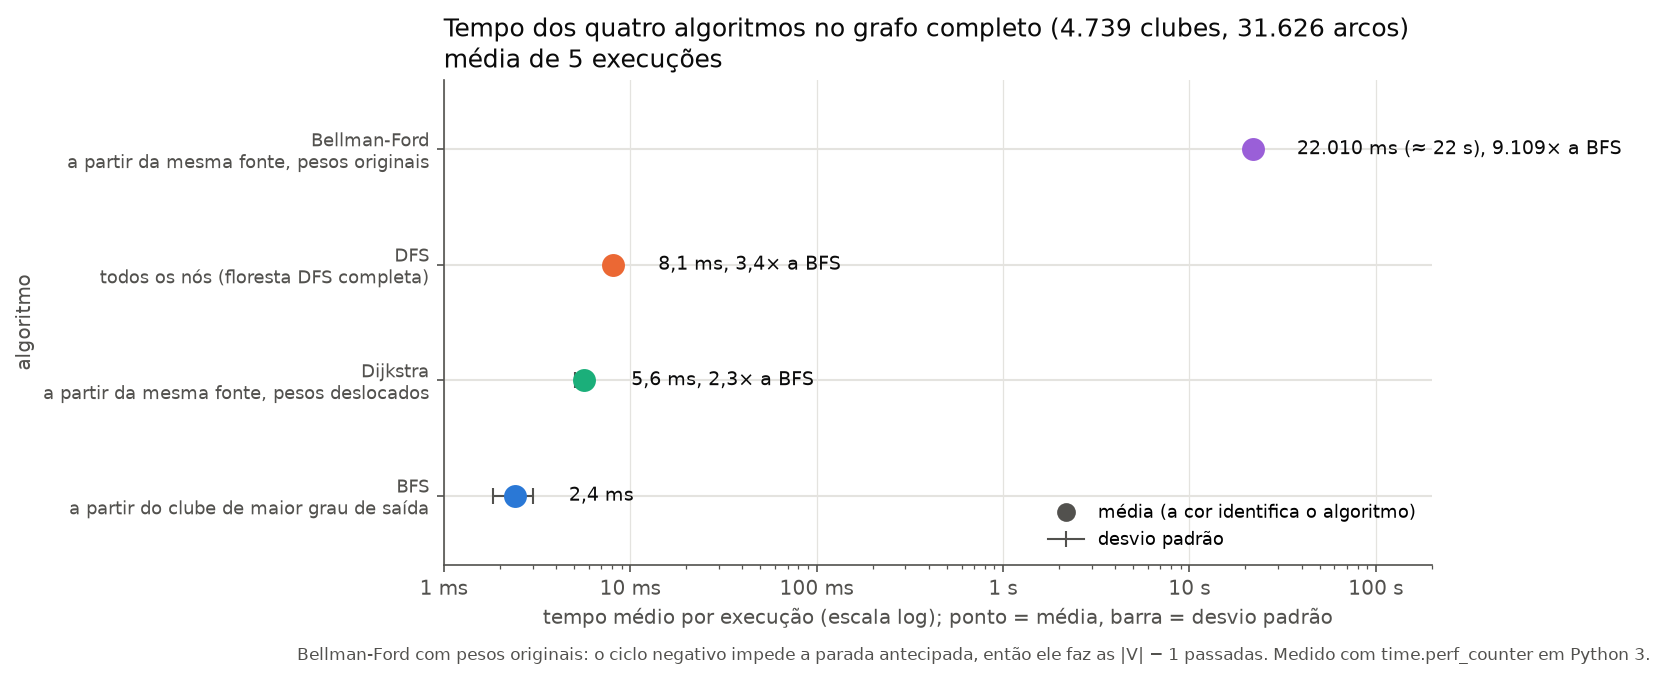
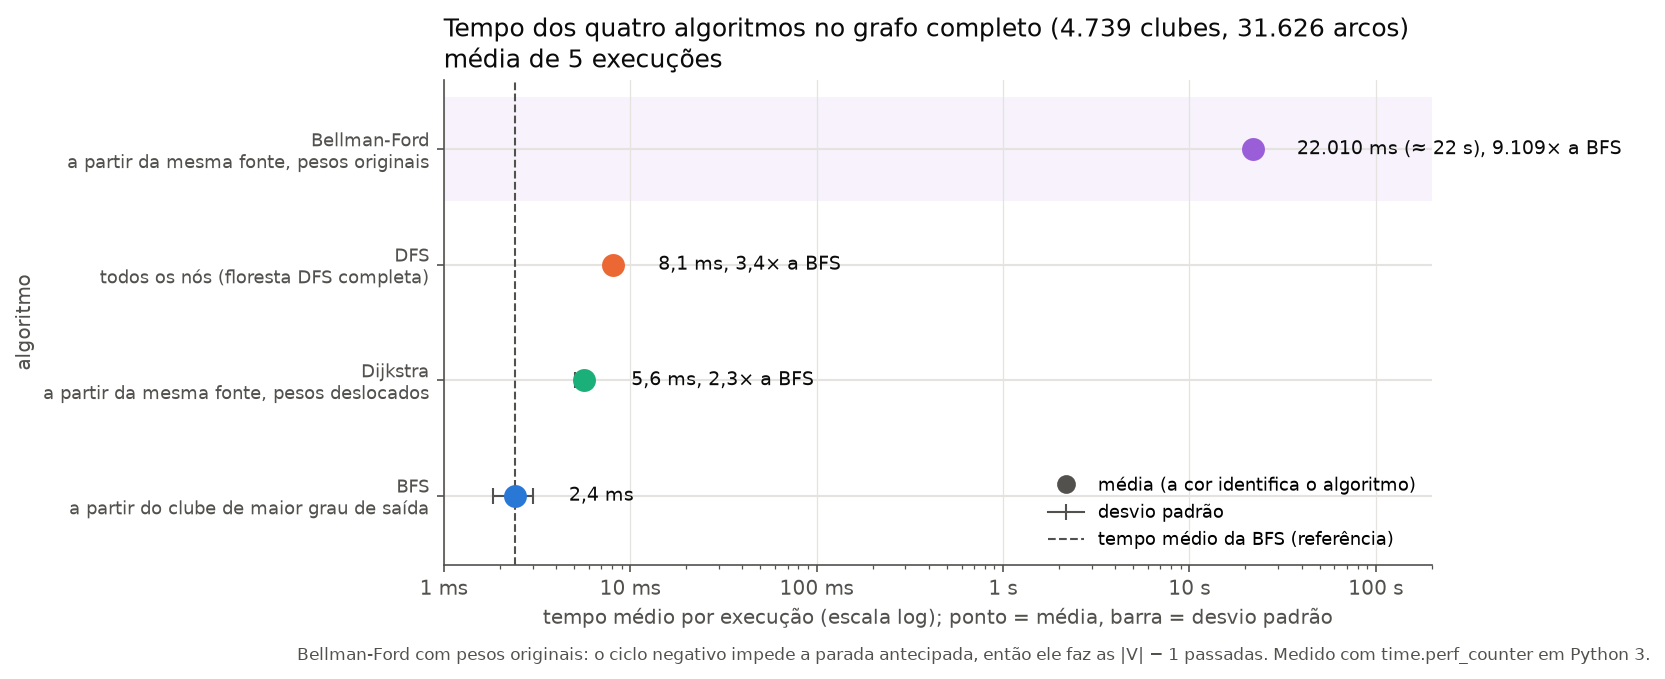
ajeitando graficos da parte 2

Changed region(s): [[0.6246, 0.6804, 0.8432, 0.8041]]

diff --git a/src/viz_parte2.py b/src/viz_parte2.py
@@ -9,6 +9,7 @@ import matplotlib
 matplotlib.use("Agg")
 import matplotlib.pyplot as plt
 import numpy as np
+import pandas as pd
 from matplotlib.lines import Line2D
 from matplotlib.patches import Patch
 from matplotlib.patheffects import withStroke
@@ -172,10 +173,14 @@ def pesos(t, saida):
     linthresh = 1e3
     bordas = np.concatenate([-np.logspace(8.4, 3, 28), [-500, 500], np.logspace(3, 8.4, 28)])
     ticks = [-1e8, -1e6, -1e4, 0, 1e4, 1e6, 1e8]
-    grupos = [("saída gratuita (valor pago = 0): peso = − valor de mercado", t[t["gratuita"]], DESTAQUE),
-              ("venda paga: peso = valor pago − valor de mercado", t[~t["gratuita"]], CORES[0])]
-    for ax, (rotulo, g, cor) in zip(eixos, grupos):
-        ax.hist(g["peso"], bins=bordas, color=cor, edgecolor="white", linewidth=0.5)
+    grupos = [("saída gratuita (valor pago = 0): peso = − valor de mercado", t[t["gratuita"]]),
+              ("venda paga: peso = valor pago − valor de mercado", t[~t["gratuita"]])]
+    # [IA] Claude Code (Claude Opus 5.5) – código das cores e dos destaques decididos por João em 25/11/2026: a cor indica o sinal do peso (negativo laranja, zero cinza-escuro, positivo azul) nos dois painéis
+    cor_negativo, cor_zero, cor_positivo = DESTAQUE, TEXTO_2, CORES[0]
+    for ax, (rotulo, g) in zip(eixos, grupos):
+        _, esquerdas, barras = ax.hist(g["peso"], bins=bordas, edgecolor="white", linewidth=0.5)
+        for barra, esquerda in zip(barras, esquerdas[:-1]):
+            barra.set_facecolor(cor_negativo if esquerda < -500 else cor_zero if esquerda < 500 else cor_positivo)
         ax.set_xscale("symlog", linthresh=linthresh, linscale=0.5)
         ax.axvline(0, color=TEXTO, lw=1)
         neg = (g["peso"] < 0).mean()
@@ -195,8 +200,9 @@ def pesos(t, saida):
     eixos[1].set_xlim(-2.5e8, 2.5e8)
     eixos[1].set_xlabel("peso da transferência em EUR (escala symlog: logarítmica a partir de ±1 mil)")
     # [IA] Claude Code (Claude Opus 5.5) – legenda das cores e da linha do peso 0, no lado positivo vazio do painel de cima
-    eixos[0].legend(handles=[Patch(color=DESTAQUE, label="saída gratuita"), Patch(color=CORES[0], label="venda paga"),
-                             Line2D([], [], color=TEXTO, lw=1, label="peso 0")], loc="upper right", fontsize=8.5)
+    eixos[0].legend(handles=[Patch(color=cor_negativo, label="peso negativo"), Patch(color=cor_zero, label="peso zero"),
+                             Patch(color=cor_positivo, label="peso positivo"),
+                             Line2D([], [], color=TEXTO, lw=1, label="linha do peso 0")], loc="upper right", fontsize=8.5)
     fig.suptitle("Distribuição dos pesos: a maior parte da rede é negativa", x=0.01, ha="left",
                  fontsize=12, color=TEXTO)
     fig.tight_layout()
@@ -210,11 +216,17 @@ def faltantes(d, saida):
     faltas = b.groupby("temporada")[["transfer_fee", "market_value_in_eur"]].apply(lambda x: x.isna().mean())
     mv, fee = faltas["market_value_in_eur"], faltas["transfer_fee"]
     fig, ax = plt.subplots(figsize=(8.5, 4.8))
+    ultima = faltas.index[-1]
+    # [IA] Claude Code (Claude Opus 5.5) – código das cores e dos destaques decididos por João em 25/11/2026: último ponto maior com contorno branco, % final em negrito na cor da linha e linha vertical na última temporada
+    ax.axvline(ultima, color=TEXTO_2, ls="--", lw=1, zorder=1)
     for col, rotulo, cor in (("market_value_in_eur", "valor de mercado", CORES[0]),
                              ("transfer_fee", "valor pago", CORES[1])):
         ax.plot(faltas.index, faltas[col], color=cor, lw=2, marker="o", ms=4, label=rotulo)
-        ax.annotate(f"{rotulo}: {pct(faltas[col].iloc[-1])}", (faltas.index[-1], faltas[col].iloc[-1]),
-                    xytext=(6, 0), textcoords="offset points", va="center", color=TEXTO_2)
+        ax.plot([ultima], [faltas[col].iloc[-1]], "o", color=cor, ms=10, mec="white", mew=1.8, zorder=4)
+        ax.annotate(f"{rotulo}: {pct(faltas[col].iloc[-1])}", (ultima, faltas[col].iloc[-1]),
+                    xytext=(10, 0), textcoords="offset points", va="center", color=cor, fontweight="bold")
+    ax.set_xlim(faltas.index[0] - 0.8, ultima + 5.5)
+    ax.set_xticks(range(int(faltas.index[0]), int(ultima) + 1, 5))
     ax.set_ylim(0, 1.02)
     ax.yaxis.set_major_formatter(FuncFormatter(pct_eixo))
     ax.set_xlabel("temporada (ano de início)")
@@ -243,16 +255,18 @@ def relacoes(t, saida):
         g = t.groupby(col, observed=True).agg(neg=("negativo", "mean"), n=("negativo", "size"))
         if col != "faixa_idade":
             g = g.sort_values("neg")
-        grupos.append((titulo, nomes, g))
+        grupos.append((col, titulo, nomes, g))
     # painéis empilhados com o mesmo eixo x; a altura de cada um segue o número de categorias
-    alturas = [len(g) + 0.9 for _, _, g in grupos]
+    alturas = [len(g) + 0.9 for *_, g in grupos]
     fig, eixos = plt.subplots(len(grupos), 1, figsize=(8.5, 0.38 * sum(alturas) + 1.2), sharex=True,
                               gridspec_kw={"height_ratios": alturas})
-    for ax, (titulo, nomes, g) in zip(eixos, grupos):
+    # [IA] Claude Code (Claude Opus 5.5) – código das cores e dos destaques decididos por João em 25/11/2026: idade em laranja, os outros três atributos em azul
+    for ax, (col, titulo, nomes, g) in zip(eixos, grupos):
+        cor = DESTAQUE if col == "faixa_idade" else CORES[0]
         rotulos = [(nomes or {}).get(str(i), str(i)) for i in g.index]
         y = np.arange(len(g))
         ax.hlines(y, 0, g["neg"], color=GRADE, lw=2)
-        ax.plot(g["neg"], y, "o", color=CORES[0], ms=8)
+        ax.plot(g["neg"], y, "o", color=cor, ms=8)
         for yi, (v, n) in enumerate(zip(g["neg"], g["n"])):
             ax.text(v + 0.012, yi, f"{pct(v)}  (n={br(n)})", va="center", fontsize=8.5, color=TEXTO_2,
                     clip_on=False)
@@ -267,9 +281,10 @@ def relacoes(t, saida):
     eixos[-1].xaxis.set_major_formatter(FuncFormatter(pct_eixo))
     eixos[-1].set_xlabel("% das transferências com peso negativo (saída abaixo do valor de mercado)")
     # [IA] Claude Code (Claude Opus 5.5) – legenda na linha do título do 1º painel, fora dos dados, e rótulo y comum aos painéis
-    eixos[0].legend(handles=[Line2D([], [], color=CORES[0], marker="o", ms=7, ls="", label="% negativo no grupo"),
+    eixos[0].legend(handles=[Line2D([], [], color=DESTAQUE, marker="o", ms=7, ls="", label="idade"),
+                             Line2D([], [], color=CORES[0], marker="o", ms=7, ls="", label="demais atributos"),
                              Line2D([], [], color=TEXTO_2, ls="--", lw=1, label="média geral")],
-                    loc="lower right", bbox_to_anchor=(1, 1), ncol=2, fontsize=8.5, borderaxespad=0.2)
+                    loc="lower right", bbox_to_anchor=(1, 1), ncol=3, fontsize=8.5, borderaxespad=0.2)
     fig.supylabel("atributo / categoria", fontsize=9.5, color=TEXTO_2)
     fig.suptitle("Relação do peso com os atributos do jogador: a idade é o que mais separa",
                  x=0.01, ha="left", fontsize=12, color=TEXTO)
@@ -284,28 +299,35 @@ def outliers(t, saida):
     pagas["log_razao"] = np.log10(pagas["razao"])
     lim = iqr(pagas["log_razao"])
     fora = (pagas["log_razao"] < lim["limite_inferior"]) | (pagas["log_razao"] > lim["limite_superior"])
+    # [IA] Claude Code (Claude Opus 5.5) – código do E5 decidido por João em 25/11/2026: em laranja só os 8 outliers do IQR
+    # mais extremos (as 4 menores e as 4 maiores razões valor pago / valor de mercado); em cinza, amostra aleatória de
+    # 1.500 das demais vendas pagas (semente 42), com 10% de opacidade; sem nomes; critério e amostra no rodapé.
+    # O cálculo do IQR não mudou.
+    outl = pagas[fora].sort_values("razao", kind="stable")
+    extremos = pd.concat([outl.head(4), outl.tail(4)])
+    demais = pagas.drop(extremos.index)
+    amostra = demais.sample(n=min(1500, len(demais)), random_state=42)
     fig, ax = plt.subplots(figsize=(7.5, 6.5))
-    ax.scatter(pagas.loc[~fora, "market_value_in_eur"], pagas.loc[~fora, "transfer_fee"], s=6, alpha=0.25,
-               color=NEUTRO, linewidths=0, label=f"dentro do IQR ({br((~fora).sum())})")
-    ax.scatter(pagas.loc[fora, "market_value_in_eur"], pagas.loc[fora, "transfer_fee"], s=10, alpha=0.7,
-               color=DESTAQUE, linewidths=0, label=f"outlier pela regra do IQR ({br(fora.sum())})")
+    ax.scatter(amostra["market_value_in_eur"], amostra["transfer_fee"], s=6, alpha=0.10, color=NEUTRO,
+               linewidths=0, label="amostra de transferências")
+    ax.scatter(extremos["market_value_in_eur"], extremos["transfer_fee"], s=36, alpha=1.0, color=DESTAQUE,
+               linewidths=0, label=f"{len(extremos)} outliers extremos", zorder=3)
     x = np.array([1e4, 3e8])
-    ax.plot(x, x, color=TEXTO, lw=1, ls="--", label="valor pago = valor de mercado (peso 0)")
+    ax.plot(x, x, color=TEXTO_2, lw=1, ls="--", label="linha de peso zero")
     ax.set_xscale("log")
     ax.set_yscale("log")
+    ax.grid(color=GRADE, lw=0.4, alpha=0.6)
     ax.xaxis.set_major_formatter(FuncFormatter(eur))
     ax.yaxis.set_major_formatter(FuncFormatter(eur))
     ax.set_xlabel("valor de mercado (EUR, escala log)")
     ax.set_ylabel("valor pago (EUR, escala log)")
-    ax.set_title("Outliers nas vendas pagas: valor pago contra valor de mercado\n"
-                 "acima da diagonal, pagou-se mais que o mercado; abaixo, menos")
-    legenda = ax.legend(loc="upper left", markerscale=2)
-    maiores = pagas.reindex(pagas["peso"].abs().sort_values(ascending=False).index).head(5)
-    rotular_sem_sobrepor(ax, [(r.market_value_in_eur, r.transfer_fee, r.player_name) for r in maiores.itertuples()],
-                         evitar=[legenda])
-    rodape(fig, f"IQR sobre log10(valor pago / valor de mercado): fora de [{br(lim['limite_inferior'], 2)}; "
-                f"{br(lim['limite_superior'], 2)}]. Nomes: as 5 maiores diferenças em módulo. "
-                f"{br(len(pagas))} vendas pagas.")
+    ax.set_title("Outliers: valor pago × valor de mercado")
+    ax.legend(loc="upper left", markerscale=1.5)
+    rodape(fig, f"IQR sobre log10(valor pago / valor de mercado), fora de [{br(lim['limite_inferior'], 2)}; "
+                f"{br(lim['limite_superior'], 2)}]: {br(int(fora.sum()))} outliers nas {br(len(pagas))} vendas pagas.\n"
+                f"Em laranja, os {len(extremos)} mais extremos (as 4 menores e as 4 maiores razões valor pago / valor de mercado). "
+                f"Em cinza, amostra aleatória de {br(len(amostra))}\ndas outras {br(len(demais))} vendas pagas (semente 42): "
+                "o gráfico não mostra todos os dados.")
     return salvar(fig, Path(saida) / "e5_outliers.png")
 
 
@@ -418,6 +440,12 @@ def tempos(relatorio, saida):
     ax.set_xscale("log")
     ax.set_xlim(1, 2e5)
     ax.hlines(y, 1, 2e5, color=GRADE, lw=1)
+    # [IA] Claude Code (Claude Opus 5.5) – código das cores e dos destaques decididos por João em 25/11/2026: linha vertical tracejada no tempo da BFS (referência) e faixa roxa suave na linha do Bellman-Ford
+    bfs = next(l for l in linhas if l["algoritmo"] == "BFS")
+    ax.axvline(bfs["media_s"] * 1000, color=TEXTO_2, ls="--", lw=1, zorder=2)
+    for yi, l in zip(y, linhas):
+        if l["algoritmo"] == "BELLMAN_FORD":
+            ax.axhspan(yi - 0.45, yi + 0.45, color=cor_do_algoritmo("BELLMAN_FORD"), alpha=0.08, lw=0, zorder=0)
     for yi, l in zip(y, linhas):
         ax.errorbar(ms[yi], yi, xerr=desvio[yi], fmt="o", ms=10, color=cor_do_algoritmo(l["algoritmo"]),
                     ecolor=TEXTO_2, capsize=4, elinewidth=1, zorder=3)
@@ -435,7 +463,8 @@ def tempos(relatorio, saida):
     # [IA] Claude Code (Claude Opus 5.5) – rótulo y e legenda das marcas, abaixo da linha da BFS
     ax.set_ylabel("algoritmo")
     ax.legend(handles=[Line2D([], [], color=TEXTO_2, marker="o", ms=8, ls="", label="média (a cor identifica o algoritmo)"),
-                       Line2D([], [], color=TEXTO_2, marker="|", ms=8, lw=1, label="desvio padrão")],
+                       Line2D([], [], color=TEXTO_2, marker="|", ms=8, lw=1, label="desvio padrão"),
+                       Line2D([], [], color=TEXTO_2, ls="--", lw=1, label="tempo médio da BFS (referência)")],
               loc="lower right", fontsize=8.5)
     l0 = linhas[0]
     ax.set_title(f"Tempo dos quatro algoritmos no grafo completo ({br(l0['V'])} clubes, {br(l0['E'])} arcos)\n"
@@ -472,23 +501,21 @@ def escalabilidade(relatorio, saida):
 
 
 def camadas_bfs(relatorio, saida):
+    # [IA] Claude Code (Claude Opus 5.5) – código da simplificação do A3 decidida por João em 25/11/2026: título curto, sem subtítulo,
+    # sem faixa e sem círculos, linhas finas com pontos pequenos, vermelho fechado / azul / verde-petróleo, legenda só com os
+    # nomes, só a grade horizontal e sem rodapé
     fig, ax = plt.subplots(figsize=(8.5, 4.6))
-    resumos = []
-    for b, cor in zip(relatorio["bfs"], CORES):
-        ax.plot(range(len(b["camadas"])), b["camadas"], "o-", color=cor, lw=2, ms=6,
-                label=f"{b['nome']}: {br(b['alcancados'])} alcançados")
-        resumos.append(resumo_camadas(b["camadas"]))
-    meio = [r[0] for r in resumos]
-    ate5 = [r[1] for r in resumos]
+    cores_fontes = ["#b3261e", "#2a78d6", "#1d7f8c"]
+    for b, cor in zip(relatorio["bfs"], cores_fontes):
+        ax.plot(range(len(b["camadas"])), b["camadas"], "o-", color=cor, lw=1.4, ms=3.5, label=b["nome"])
     ax.set_xticks(range(max(len(b["camadas"]) for b in relatorio["bfs"])))
     ax.yaxis.set_major_formatter(FuncFormatter(lambda v, _: br(v)))
+    ax.grid(axis="x", visible=False)
+    ax.grid(axis="y", color=GRADE, lw=0.6)
     ax.set_xlabel("nível da BFS (número de transferências desde a fonte)")
     ax.set_ylabel("clubes descobertos no nível")
-    ax.set_title("BFS a partir de três clubes: a rede é um 'mundo pequeno'\n"
-                 f"{pct(min(meio))} a {pct(max(meio))} dos clubes alcançáveis estão a 2 a 4 transferências da fonte; "
-                 f"{pct(min(ate5))} a {pct(max(ate5))} a até 5")
+    ax.set_title("Clubes descobertos por nível da BFS")
     ax.legend()
-    rodape(fig, "Os três chegam aos mesmos clubes: a fonte muda a forma das camadas, não o conjunto alcançável.")
     return salvar(fig, Path(saida) / "a3_camadas_bfs.png")
 
 
